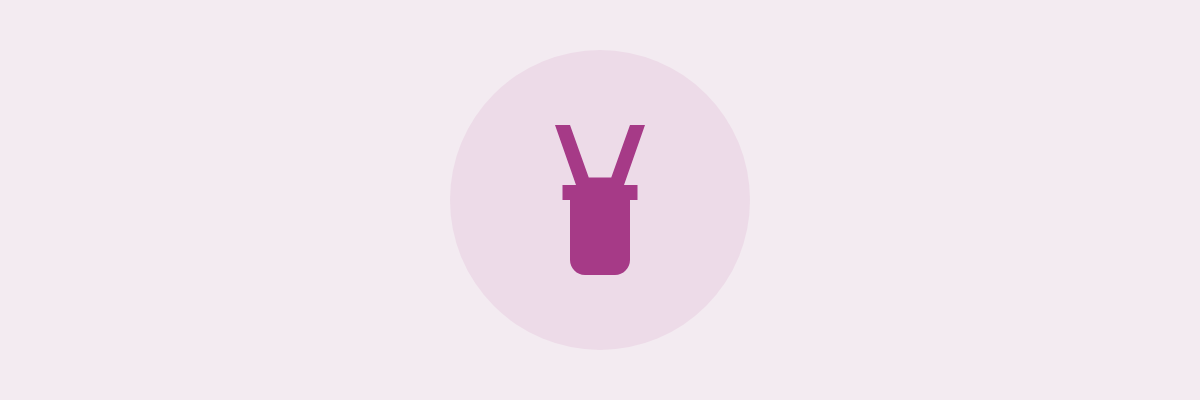
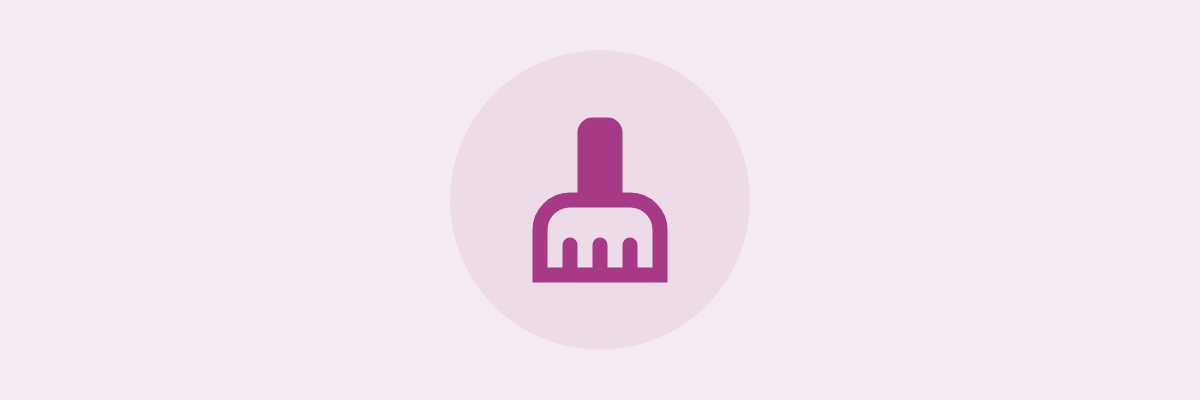
fix(email): replace broom and swimmer glyphs with real Material Symbols paths
Two of seven pictograms were unrecognisable: cleanup rendered as an
upside-down bucket and pool as a dot/wedge over wavy lines. Both were
placeholder paths that were syntactically valid SVG but not the intended
icons.

Replaced with the real Material Symbols fill1 paths for
cleaning_services and pool, fetched from fonts.gstatic.com. These ship
on the current 0 -960 960 960 viewBox rather than the legacy 24x24 grid
the other five glyphs use, so GLYPHS now records each glyph's source
box and pictogram.ts derives its transform from that box instead of a
hardcoded scale = GLYPH_SIZE / 24. For a 24x24 glyph this reduces to
the original scale = 7.5, and the five untouched glyphs regenerate as
byte-identical PNGs.

Changed region(s): [[0.4317, 0.27, 0.555, 0.72]]

diff --git a/apps/hoa/src/lib/email/glyphs.ts b/apps/hoa/src/lib/email/glyphs.ts
@@ -2,28 +2,64 @@
  * Material Symbols path data, Apache-2.0.
  *
  * Vendored rather than depended on: we need seven glyphs, not a 4,268-glyph
- * font, and the build has to run without network access. Paths are the
- * 24x24 filled variants, normalised to a 0 0 24 24 viewBox.
+ * font, and the build has to run without network access.
+ *
+ * Material Symbols ships two grids across its history: the legacy 24x24
+ * viewBox and the current `0 -960 960 960` viewBox. Each glyph records its
+ * own source `box` so pictogram.ts can derive the correct transform instead
+ * of assuming one grid.
  *
  * Licence copy: docs/licenses/material-symbols-APACHE-2.0.txt
  * Source: https://github.com/google/material-design-icons (Apache-2.0)
  */
 
+export interface Glyph {
+  /** Raw SVG path data, verbatim from the source. */
+  d: string
+  /** Source viewBox as [minX, minY, width, height]. */
+  box: [number, number, number, number]
+}
+
 export const GLYPHS = {
-  // pets — paw print
-  pets: 'M4.5 12.5a2.5 2.5 0 1 0 0-5 2.5 2.5 0 0 0 0 5zm4-5a2.5 2.5 0 1 0 0-5 2.5 2.5 0 0 0 0 5zm7 0a2.5 2.5 0 1 0 0-5 2.5 2.5 0 0 0 0 5zm4 5a2.5 2.5 0 1 0 0-5 2.5 2.5 0 0 0 0 5zm-3.6 2.4c-.9-1-1.5-1.8-2.4-2.6-.5-.5-1.2-.8-1.9-.8h-.2c-.7 0-1.4.3-1.9.8-.9.8-1.5 1.6-2.4 2.6-.6.7-1.4 1.3-1.9 2.1-.3.5-.5 1-.5 1.6 0 1.5 1.2 2.7 2.7 2.7.6 0 1.2-.2 1.7-.4.7-.3 1.5-.4 2.4-.4s1.7.1 2.4.4c.5.2 1.1.4 1.7.4 1.5 0 2.7-1.2 2.7-2.7 0-.6-.2-1.1-.5-1.6-.5-.8-1.3-1.4-1.9-2.1z',
-  // local_parking — P in a square
-  parking: 'M3 3h18v18H3V3zm10.5 10.5c1.93 0 3.5-1.57 3.5-3.5S15.43 6.5 13.5 6.5H9v11h2v-4h2.5zm0-2H11V8.5h2.5c.83 0 1.5.67 1.5 1.5s-.67 1.5-1.5 1.5z',
-  // recycling — bin
-  recycling: 'M6 19c0 1.1.9 2 2 2h8c1.1 0 2-.9 2-2V7H6v12zM19 4h-3.5l-1-1h-5l-1 1H5v2h14V4z',
-  // construction — traffic cone / works
-  construction: 'M13.7 2.6h-3.4L5.5 21h13l-4.8-18.4zM9.4 9h5.2l.8 3H8.6l.8-3zM3 22h18v2H3v-2z',
-  // cleaning_services — broom
-  cleanup: 'M16 2l-2.5 7h-3L8 2H6l2.8 8H7v2h1v8c0 1.1.9 2 2 2h4c1.1 0 2-.9 2-2v-8h1v-2h-1.8L18 2h-2z',
-  // pool — water and swimmer
-  pool: 'M2 15c1.5 0 2.5 1 4 1s2.5-1 4-1 2.5 1 4 1 2.5-1 4-1 2.5 1 4 1v2c-1.5 0-2.5-1-4-1s-2.5 1-4 1-2.5-1-4-1-2.5 1-4 1-2.5-1-4-1v-2zm4-4a2 2 0 1 0 0-4 2 2 0 0 0 0 4zm12-6l-8 5 3 2 5-3V5z',
-  // apartment — building, used for the lease cap notice
-  apartment: 'M17 11V3H7v4H3v14h8v-4h2v4h8V11h-4zM7 19H5v-2h2v2zm0-4H5v-2h2v2zm0-4H5V9h2v2zm4 4H9v-2h2v2zm0-4H9V9h2v2zm0-4H9V5h2v2zm4 8h-2v-2h2v2zm0-4h-2V9h2v2zm0-4h-2V5h2v2zm4 12h-2v-2h2v2zm0-4h-2v-2h2v2z',
-} as const
+  // pets — paw print (legacy 24x24 grid)
+  pets: {
+    d: 'M4.5 12.5a2.5 2.5 0 1 0 0-5 2.5 2.5 0 0 0 0 5zm4-5a2.5 2.5 0 1 0 0-5 2.5 2.5 0 0 0 0 5zm7 0a2.5 2.5 0 1 0 0-5 2.5 2.5 0 0 0 0 5zm4 5a2.5 2.5 0 1 0 0-5 2.5 2.5 0 0 0 0 5zm-3.6 2.4c-.9-1-1.5-1.8-2.4-2.6-.5-.5-1.2-.8-1.9-.8h-.2c-.7 0-1.4.3-1.9.8-.9.8-1.5 1.6-2.4 2.6-.6.7-1.4 1.3-1.9 2.1-.3.5-.5 1-.5 1.6 0 1.5 1.2 2.7 2.7 2.7.6 0 1.2-.2 1.7-.4.7-.3 1.5-.4 2.4-.4s1.7.1 2.4.4c.5.2 1.1.4 1.7.4 1.5 0 2.7-1.2 2.7-2.7 0-.6-.2-1.1-.5-1.6-.5-.8-1.3-1.4-1.9-2.1z',
+    box: [0, 0, 24, 24],
+  },
+  // local_parking — P in a square (legacy 24x24 grid)
+  parking: {
+    d: 'M3 3h18v18H3V3zm10.5 10.5c1.93 0 3.5-1.57 3.5-3.5S15.43 6.5 13.5 6.5H9v11h2v-4h2.5zm0-2H11V8.5h2.5c.83 0 1.5.67 1.5 1.5s-.67 1.5-1.5 1.5z',
+    box: [0, 0, 24, 24],
+  },
+  // recycling — bin (legacy 24x24 grid). Name is inaccurate (draws a bin, not
+  // chasing arrows) but the picture is correct for its only consumer
+  // (trash-and-recycling-bins) — do not "fix" it.
+  recycling: {
+    d: 'M6 19c0 1.1.9 2 2 2h8c1.1 0 2-.9 2-2V7H6v12zM19 4h-3.5l-1-1h-5l-1 1H5v2h14V4z',
+    box: [0, 0, 24, 24],
+  },
+  // construction — traffic cone / works (legacy 24x24 grid)
+  construction: {
+    d: 'M13.7 2.6h-3.4L5.5 21h13l-4.8-18.4zM9.4 9h5.2l.8 3H8.6l.8-3zM3 22h18v2H3v-2z',
+    box: [0, 0, 24, 24],
+  },
+  // cleaning_services — broom, real Material Symbols path on the current
+  // 0 -960 960 960 grid. Fetched from fonts.gstatic.com; copied byte-for-byte.
+  cleanup: {
+    d: 'M120-40v-280q0-83 58.5-141.5T320-520h40v-320q0-33 23.5-56.5T440-920h80q33 0 56.5 23.5T600-840v320h40q83 0 141.5 58.5T840-320v280H120Zm80-80h80v-120q0-17 11.5-28.5T320-280q17 0 28.5 11.5T360-240v120h80v-120q0-17 11.5-28.5T480-280q17 0 28.5 11.5T520-240v120h80v-120q0-17 11.5-28.5T640-280q17 0 28.5 11.5T680-240v120h80v-200q0-50-35-85t-85-35H320q-50 0-85 35t-35 85v200Z',
+    box: [0, -960, 960, 960],
+  },
+  // pool — swimmer above water, real Material Symbols path on the current
+  // 0 -960 960 960 grid. Fetched from fonts.gstatic.com; copied byte-for-byte.
+  pool: {
+    d: 'M80-120v-80q38 0 57-20t75-20q56 0 77 20t57 20q36 0 57-20t77-20q56 0 77 20t57 20q36 0 57-20t77-20q56 0 75 20t57 20v80q-59 0-77.5-20T748-160q-36 0-57 20t-77 20q-56 0-77-20t-57-20q-36 0-57 20t-77 20q-56 0-77-20t-57-20q-36 0-54.5 20T80-120Zm0-180v-80q38 0 57-20t75-20q56 0 77.5 20t56.5 20q36 0 57-20t77-20q56 0 77 20t57 20q36 0 57-20t77-20q56 0 75 20t57 20v80q-59 0-77.5-20T748-340q-36 0-55.5 20T614-300q-57 0-77.5-20T480-340q-38 0-56.5 20T346-300q-59 0-78.5-20T212-340q-36 0-54.5 20T80-300Zm196-204 133-133-40-40q-33-33-70-48t-91-15v-100q75 0 124 16.5t96 63.5l256 256q-17 11-33 17.5t-37 6.5q-36 0-57-20t-77-20q-56 0-77 20t-57 20q-21 0-37-6.5T276-504Zm463-306.5q29 29.5 29 70.5 0 42-29 71t-71 29q-42 0-71-29t-29-71q0-41 29-70.5t71-29.5q42 0 71 29.5Z',
+    box: [0, -960, 960, 960],
+  },
+  // apartment — building, used for the lease cap notice (legacy 24x24 grid)
+  apartment: {
+    d: 'M17 11V3H7v4H3v14h8v-4h2v4h8V11h-4zM7 19H5v-2h2v2zm0-4H5v-2h2v2zm0-4H5V9h2v2zm4 4H9v-2h2v2zm0-4H9V9h2v2zm0-4H9V5h2v2zm4 8h-2v-2h2v2zm0-4h-2V9h2v2zm0-4h-2V5h2v2zm4 12h-2v-2h2v2zm0-4h-2v-2h2v2z',
+    box: [0, 0, 24, 24],
+  },
+} as const satisfies Record<string, Glyph>
 
 export type GlyphName = keyof typeof GLYPHS

diff --git a/apps/hoa/src/lib/email/pictogram.test.ts b/apps/hoa/src/lib/email/pictogram.test.ts
@@ -8,7 +8,8 @@ describe('GLYPHS', () => {
   it('covers every phase-1 topic glyph', () => {
     for (const name of ['pets', 'parking', 'recycling', 'construction', 'cleanup', 'pool', 'apartment'] as const) {
       expect(GLYPHS[name], `missing glyph: ${name}`).toBeTruthy()
-      expect(GLYPHS[name]).toMatch(/^[Mm]/) // an SVG path starts with a moveto
+      expect(GLYPHS[name].d).toMatch(/^[Mm]/) // an SVG path starts with a moveto
+      expect(GLYPHS[name].box).toHaveLength(4)
     }
   })
 })
@@ -39,6 +40,42 @@ describe('renderPictogramSvg', () => {
   it('throws a helpful error for an unknown glyph', () => {
     // @ts-expect-error deliberately invalid
     expect(() => renderPictogramSvg({ glyph: 'nope', accentColor: '#2F8F5B' })).toThrow(/unknown glyph/i)
+  })
+
+  it('places a 960-grid glyph inside the canvas, derived from its own box', () => {
+    // pool and cleanup are on the current 0 -960 960 960 Material Symbols
+    // grid, not the legacy 24x24 grid the other five glyphs use.
+    const svg = renderPictogramSvg({ glyph: 'pool', accentColor: '#2F8F5B' })
+    const match = svg.match(/translate\(([-\d.]+) ([-\d.]+)\) scale\(([-\d.]+)\)/)
+    expect(match, 'expected a translate(...) scale(...) transform').toBeTruthy()
+    const [, txStr, tyStr, scaleStr] = match!
+    const tx = Number(txStr)
+    const ty = Number(tyStr)
+    const scale = Number(scaleStr)
+
+    // box is [0, -960, 960, 960] → scale = 180 / 960
+    expect(scale).toBeCloseTo(180 / 960)
+
+    // The transformed bounding box (x in [0, 960], y in [-960, 0] locally)
+    // must land fully inside the 1200x400 canvas.
+    const minCanvasX = tx + 0 * scale
+    const maxCanvasX = tx + 960 * scale
+    const minCanvasY = ty + -960 * scale
+    const maxCanvasY = ty + 0 * scale
+    expect(minCanvasX).toBeGreaterThanOrEqual(0)
+    expect(maxCanvasX).toBeLessThanOrEqual(1200)
+    expect(minCanvasY).toBeGreaterThanOrEqual(0)
+    expect(maxCanvasY).toBeLessThanOrEqual(400)
+  })
+
+  it('still uses scale = 7.5 for a legacy 24x24 glyph, centred as before', () => {
+    const svg = renderPictogramSvg({ glyph: 'pets', accentColor: '#2F8F5B' })
+    const match = svg.match(/translate\(([-\d.]+) ([-\d.]+)\) scale\(([-\d.]+)\)/)
+    expect(match).toBeTruthy()
+    const [, txStr, tyStr, scaleStr] = match!
+    expect(Number(scaleStr)).toBeCloseTo(7.5)
+    expect(Number(txStr)).toBeCloseTo(510) // (1200 - 24*7.5) / 2
+    expect(Number(tyStr)).toBeCloseTo(110) // (400 - 24*7.5) / 2
   })
 })
 

diff --git a/apps/hoa/src/lib/email/pictogram.ts b/apps/hoa/src/lib/email/pictogram.ts
@@ -22,25 +22,31 @@ export interface PictogramSpec {
 
 const WIDTH = 1200
 const HEIGHT = 400
-/** Glyph box in the 1200x400 canvas. The source paths are 24x24. */
+/** Glyph box in the 1200x400 canvas, independent of the source grid. */
 const GLYPH_SIZE = 180
-const SCALE = GLYPH_SIZE / 24
 
 export function renderPictogramSvg(spec: PictogramSpec): string {
-  const path = GLYPHS[spec.glyph]
-  if (!path) {
+  const glyph = GLYPHS[spec.glyph]
+  if (!glyph) {
     throw new Error(`unknown glyph: ${spec.glyph}. Add it to email/glyphs.ts.`)
   }
   assertAccent(spec.accentColor)
 
   const panel = tintOver(spec.accentColor, 0.08)
   const halo = tintOver(spec.accentColor, 0.16)
-  const tx = (WIDTH - GLYPH_SIZE) / 2
-  const ty = (HEIGHT - GLYPH_SIZE) / 2
+
+  // Derive the transform from the glyph's own source box rather than
+  // assuming a grid — Material Symbols ships both the legacy 24x24 viewBox
+  // and the current 0 -960 960 960 viewBox. For a 24x24 glyph this reduces
+  // to the original hardcoded scale = GLYPH_SIZE / 24 = 7.5.
+  const [minX, minY, bw, bh] = glyph.box
+  const scale = GLYPH_SIZE / Math.max(bw, bh)
+  const tx = (WIDTH - bw * scale) / 2 - minX * scale
+  const ty = (HEIGHT - bh * scale) / 2 - minY * scale
 
   return `<svg xmlns="http://www.w3.org/2000/svg" width="${WIDTH}" height="${HEIGHT}" viewBox="0 0 ${WIDTH} ${HEIGHT}">
 <rect width="${WIDTH}" height="${HEIGHT}" fill="${panel}"/>
 <circle cx="${WIDTH / 2}" cy="${HEIGHT / 2}" r="150" fill="${halo}"/>
-<g transform="translate(${tx} ${ty}) scale(${SCALE})"><path d="${path}" fill="${spec.accentColor}"/></g>
+<g transform="translate(${tx} ${ty}) scale(${scale})"><path d="${glyph.d}" fill="${spec.accentColor}"/></g>
 </svg>`
 }
